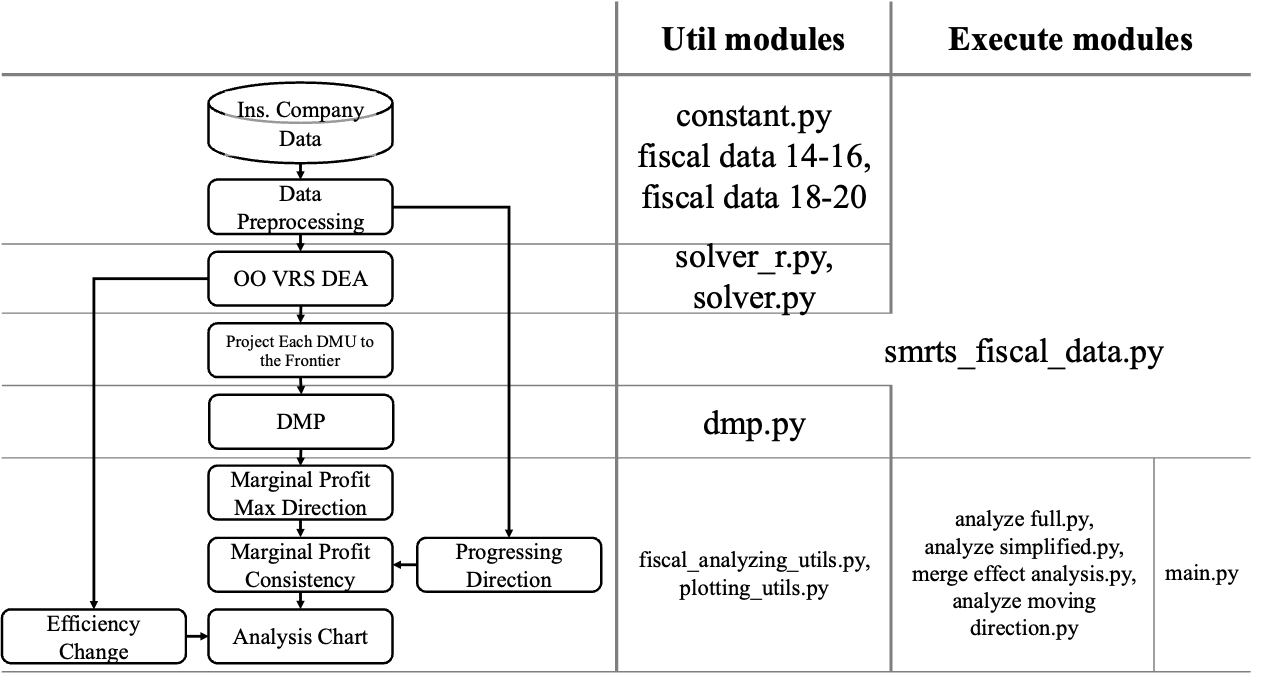
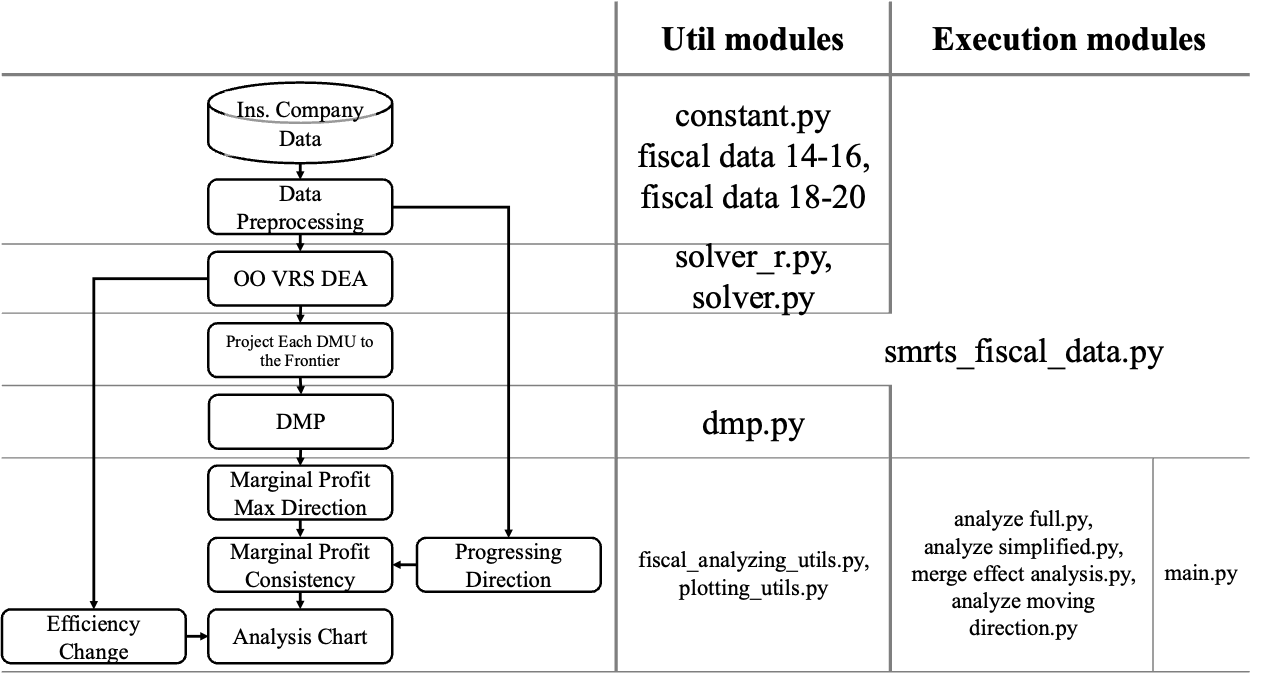
dis: in readme.md

diff --git a/readme.md b/readme.md
@@ -1,12 +1,16 @@
 # Marginal Productivity and Efficiency Analysis on Taiwan’s Life Insurance Industry through Meta-Data Envelopment Analysis
-###### key paper: [Lee (2017)](https://doi.org/10.1057/s41274-016-0129-8)
-###### process *main.py* will show all figures of the analysis (requirement: [Gurobi lisence](https://www.gurobi.com/academia/academic-program-and-licenses/))
+###### Thesis [link](doi:10.6342/NTU202202824) (open access in 2025)
+###### Key paper: [Lee (2017)](https://doi.org/10.1057/s41274-016-0129-8)
+###### Process *main.py* will show all figures of the analysis (requirement: [Gurobi lisence](https://www.gurobi.com/academia/academic-program-and-licenses/))
 ## Abstract
+---
 This study proposes a novel analysis chart with Marginal Profit Consistency, which is a derivative from Directional Marginal Productivity, and Efficiency Change. Where the Marginal Profit Consistency can help us investigate how a DMU’s progress in history be related to the direction which leads to gain maximum marginal profit. We use life insurance industrial data in Taiwan as the application field, with the assumption that there is no technical change in the paneled 3 years. Using our proposing chart, we can highlight the industry event related to company performance and its marginal output portfolio. Besides, we further explain the usage when we face the merger effect in industry, which is always a worth discussing issue once incurred. To the best of our knowledge, we suggest how an insurance company can move forward if it falls in Laggard quadrant. 
 ## Research Purposes
+---
 - Propose a novel analysis chart examining how a decision making unit's (DMU) reaction to the margin will affect its performance. 
 - The proposed chart aims to highlight the industrial major and minor events related to company performance and its marginal output portfolio.
 ## Application Field, Database, and Parameters
+---
 - Taiwan Life Insurance Industry, 2014-2016, 2018-2020
 - Database: annual Income Statements collected by [Taiwan Insurance Institute](https://www.tii.org.tw/tii/actuarial/actuarial3/)
 - Inputs:
@@ -16,20 +20,41 @@ This study proposes a novel analysis chart with Marginal Profit Consistency, whi
     - Underwriting Profit ( $Y_1$ ): profit earned from the insurance business
     - Investment Profit ( $Y_2$ ): profit earned from the investment portfolio  
 ## Research Flowchart
-- <img src="https://github.com/wuyentung/Master-Thesis/blob/main/IMAGES/methodology%20flowchart.png" width="500" height="500" />
-### Module Flowchart
-- <img src="https://github.com/wuyentung/Master-Thesis/blob/main/IMAGES/module%20flowchart.png" width="900" />
-  
----
----
-1. 改用保險業實證 dmp
-    1. 三年資料，假設沒有 tech. change
-    1. 先算整體的，有能力再用網路
-1. 最後有時間再來 scope property
+<img src="https://github.com/wuyentung/Master-Thesis/blob/main/IMAGES/methodology%20flowchart.png" width="500" height="500" />
 
-1. 效率估計改 output orient
-1. 改單位
-    - 改單位後就算得出來了
-1. alpha 的 k 取全部
-1. 先用 2003 年資料
-// can be used: analyse simplified.py
+### Module Flowchart
+Figure below represents the module we use when implementing the research. Util modules help us construct fundamental of data preprocessing, analysis model, and analysis figure plotting. Execution modules then link all util modules to perform the analysis in different phases, or requirments.  
+<img src="https://github.com/wuyentung/Master-Thesis/blob/main/IMAGES/module%20flowchart.png" width="900" />  
+
+## Analysis Result
+---
+### Result Tables (round in 3, amount: million NTD)
+Table below is the example of the panel data and analysis value in period 2014-2016 (round in 3), including two insurance companies. The first four columns are the input and output data. From the row perspective, we combine insurer’s name with its year collected. For example, insurer AIA Taiwan 14 refers to company AIA (American International Assurance) Taiwan with 2014 data, AIA Taiwan 15 refers to company AIA Taiwan with 2015 data, etc. We use vectors to represent Underwriting Profit and Investment Profit respectively on column of Output Progress Direction and Marginal Profit Max Direction. Where Marginal Profit Max Direction is the mean of marginal profit max direction retrieved from DMPs under specifying input Insurance Expenses and Operation Expenses. 
+
+| Company Name | Insurance Expenses | Operation Expenses |Underwriting Profit | Investment Profit | Scale|Profit | Output Progress Direction | Marginal Profit Max_Direction Insurance |  Marginal Profit Max_Direction Operation | Marginal Profit Consistency | Efficiency | Efficiency Change |
+| :---: | :---: | :---: | :---: | :---: | :---: | :---: | :---: | :---: | :---: | :---: | :---: | :---: |
+| AIA Taiwan 14 | 1.002 | 1.553|162.949|1.702|2.555|164.651|[-0.14, 0.86]|[0.99, 0.01]|[0.99, 0.01]|-0.151|	1.009|1.001|
+|AIA Taiwan 15|	0.938|	1.646|	162.911|1.93|2.584|	164.842|[0.797, 0.203]|	[0.99, 0.01]|[0.9, 0.1]|0.981|1.008|1.003|
+|AIA Taiwan 16|	0.878|	1.733|	163.311|	2.032|	2.611|	165.343|	[nan, nan]|	[0.01, 0.99]|	[0.99, 0.01]| nan |	1.005 | nan |
+|Cathay Life 14|32.215|	19.411|	28.884|	169.247|	51.626|	198.131|[-0.22, 0.78]|[0, 0]|[0.99, 0.01]|	-0.262|	1|	1|
+|Cathay Life 15| 32.788|25.434|	25.141|	182.498|	58.222|	207.638| [-0.742, 0.258]|[0, 0]|[0, 0]|	0|	1|	1|
+|Cathay Life 16|37.924|	30.191|	0|	191.24|	68.115|	191.24|	[nan, nan]|	[0, 0]|	[0, 0]| nan	|	1|	nan |
+
+### Analysis Figures
+#### 2014-2016
+Empirical analysis for marginal profit consistency and efficiency change in period 2014-2016 is shown below. Our proposing chart can identify industrial major events. For example, Fubon Life and Shin Kong Life suffered efficiency regress during 2015 to 2016 seriously (see the red circle). From historical news, these two insurance companies did not invest well in 2015. Shin Kong Life even sold off its real estate.  
+<img src="https://github.com/wuyentung/Master-Thesis/blob/main/IMAGES/2014-2016.png" width="900" />  
+
+#### Merger Effect
+With our proposed analysis chart, we can intuitively find out the performance and portfolio change. This can also help us to investigate the merger effect. Taiwan Life merged with CTBT Life in 2016. The industry predicted this merger would make Taiwan Life become one of the top 6 large life insurance companies.  
+We add a dummy DMU, named DUMMY Taiwan 16, naively summing up the inputs and outputs, represents the merged company of CTBC Life and Taiwan Life in theory. We then summarize the analysis of real word merger and the dummy merger in figure below. The merged Taiwan Life 16 performs better than DUMMY Taiwan 16 in efficiency. Namely, the real-world merging for CTBC Life and Taiwan Life in 2016 did better than theoretical predicted.  
+<img src="https://github.com/wuyentung/Master-Thesis/blob/main/IMAGES/merger%20effect.png" width="900" />
+
+### Suggestion for DMUs
+- In the analysis chart, we want not only the indusrial events, but also the manageral suggestion for DMUs perform bad. We then split the analysis figure into four quadrants like below. Where the vertical axis (Marginal Profit Consistency) is split by the mean of DMUs; the horizental axis (Efficiency Change) is seperated by $1$, as the boundary of efficiency progress and regress.  
+<img src="https://github.com/wuyentung/Master-Thesis/blob/main/IMAGES/four%20quadrant.png" width="900" />
+- We would like to understand the improving direction for DMU falls in Laggard district. Belowing summarized the movement in panel data 2014-2016 and 2018-2020. In summary, our suggestion for DMU falling in Laggard quadrant:
+    - Large scale DMU: focus on efficiency
+    - Small scale DMU: change on marginal profit consistency
+    
+<img src="https://github.com/wuyentung/Master-Thesis/blob/main/IMAGES/suggestion.png" width="900" />
